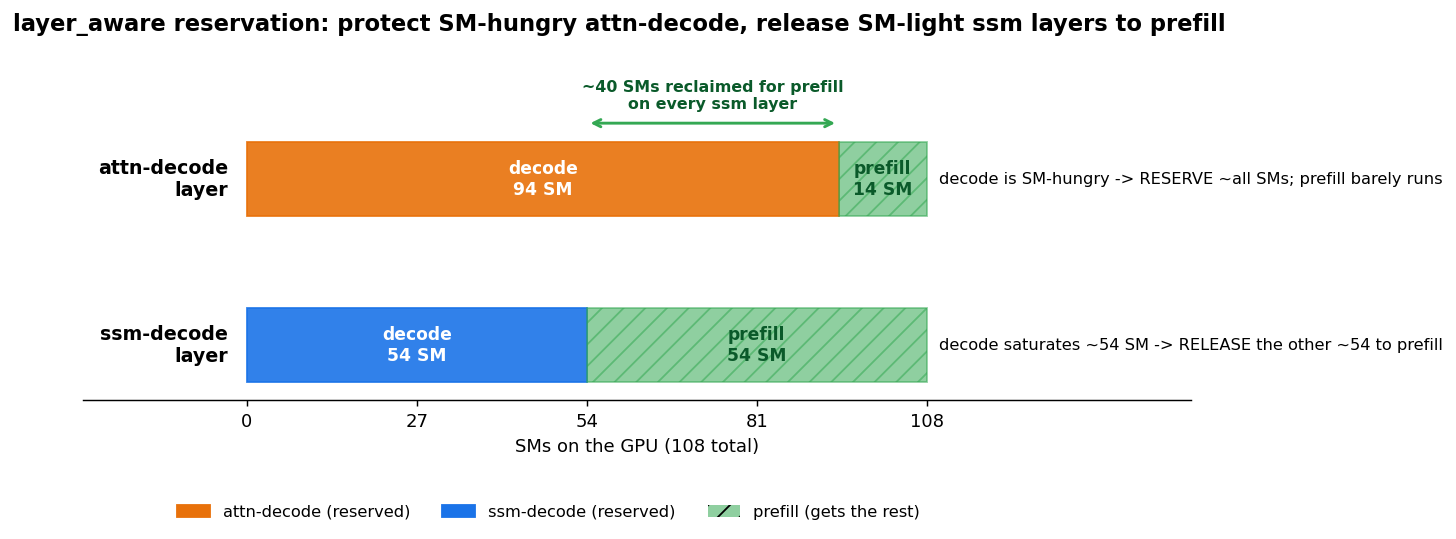
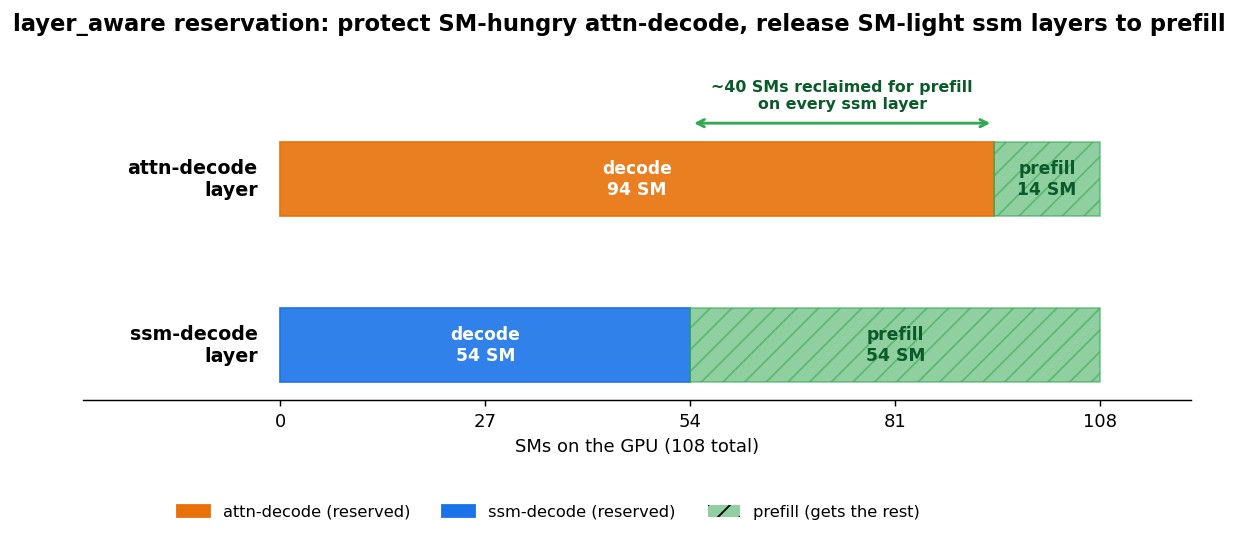
Declutter figures: remove in-chart text annotations
- attn_ssm_diff panel A: remove the orange/blue "RESERVE"/"RELEASE" text annotations that hurt
  readability; keep the subtle ssm-saturation marker line. Curves + title carry the message.
- mechanism_schematic: remove the right-side note text per bar; keep the in-bar labels (decode
  94/54 SM | prefill 14/54 SM) and the "~40 SMs reclaimed" arrow. Tighter right margin.

diff --git a/workspace/characterization/experiments/e6_queue_sim/make_mechanism_fig.py b/workspace/characterization/experiments/e6_queue_sim/make_mechanism_fig.py
@@ -17,12 +17,12 @@ SM = 108
 fig, ax = plt.subplots(figsize=(11, 3.2))
 
 # SM allocation per layer-type (decode reserved | prefill)
-rows = [   # (label, decode_floor_SM, decode_color, note)
-    ("attn-decode\nlayer", 94, ATT, "decode is SM-hungry -> RESERVE ~all SMs; prefill barely runs"),
-    ("ssm-decode\nlayer", 54, SSM, "decode saturates ~54 SM -> RELEASE the other ~54 to prefill"),
+rows = [   # (label, decode_floor_SM, decode_color)
+    ("attn-decode\nlayer", 94, ATT),
+    ("ssm-decode\nlayer", 54, SSM),
 ]
 yh = 0.62
-for k, (lab, floor, dc, note) in enumerate(rows):
+for k, (lab, floor, dc) in enumerate(rows):
     y = 1 - k * 1.4
     ax.add_patch(Rectangle((0, y), floor, yh, color=dc, alpha=0.9))                          # decode reserved
     ax.add_patch(Rectangle((floor, y), SM - floor, yh, color=PRE, alpha=0.55, hatch="//"))    # prefill
@@ -31,11 +31,10 @@ for k, (lab, floor, dc, note) in enumerate(rows):
     ax.text(floor + (SM - floor) / 2, y + yh / 2, f"prefill\n{SM-floor} SM", ha="center", va="center",
             color="#0a5a2a", fontsize=9.5, fontweight="bold")
     ax.text(-3, y + yh / 2, lab, ha="right", va="center", fontsize=10.5, fontweight="bold")
-    ax.text(SM + 2, y + yh / 2, note, ha="left", va="center", fontsize=9)
 ax.annotate("", xy=(54, 1.78), xytext=(94, 1.78), arrowprops=dict(arrowstyle="<->", color=PRE, lw=1.6))
 ax.text(74, 1.9, "~40 SMs reclaimed for prefill\non every ssm layer", ha="center", color="#0a5a2a",
         fontsize=8.8, fontweight="bold")
-ax.set_xlim(-26, SM + 42); ax.set_ylim(-0.55, 2.15)
+ax.set_xlim(-26, SM + 12); ax.set_ylim(-0.55, 2.15)
 ax.set_xticks([0, 27, 54, 81, 108]); ax.set_yticks([])
 ax.set_xlabel("SMs on the GPU (108 total)")
 for sp in ("top", "right", "left"):

diff --git a/workspace/characterization/experiments/e6_queue_sim/make_attn_ssm_diff_fig.py b/workspace/characterization/experiments/e6_queue_sim/make_attn_ssm_diff_fig.py
@@ -40,15 +40,8 @@ axA.set_xlabel("SMs given to the decode kernel"); axA.set_ylabel("decode latency
 axA.set_title("(A) decode SM-sensitivity per layer-type\n"
               "attn-decode SM-hungry (steep) | ssm-decode saturates early (flat)",
               fontsize=11, fontweight="bold")
-axA.axvline(54, color=SSM, ls=":", lw=1.3, alpha=0.7)
-# short annotations next to their own curves (upper-left = steep attn; lower-right = flat ssm)
-axA.annotate("attn: SM-hungry\n=> RESERVE", xy=(40, 9.3), xytext=(17, 17),
-             color=ATT, fontsize=9.5, fontweight="bold", ha="left",
-             arrowprops=dict(arrowstyle="->", color=ATT))
-axA.annotate("ssm: flat after ~54 SM\n=> RELEASE to prefill", xy=(70, 0.55), xytext=(58, 0.30),
-             color=SSM, fontsize=9.5, fontweight="bold", ha="left",
-             arrowprops=dict(arrowstyle="->", color=SSM))
-axA.legend(fontsize=8.5, loc="upper right", ncol=2); axA.grid(alpha=0.3, which="both")
+axA.axvline(54, color=SSM, ls=":", lw=1.3, alpha=0.6)   # ssm saturation marker (no text)
+axA.legend(fontsize=9, loc="upper right", ncol=2); axA.grid(alpha=0.3, which="both")
 
 # (B) one-forward latency composition
 pa = e5[e5.prefill_layer == "attn"].solo_prefill_ms.median()
